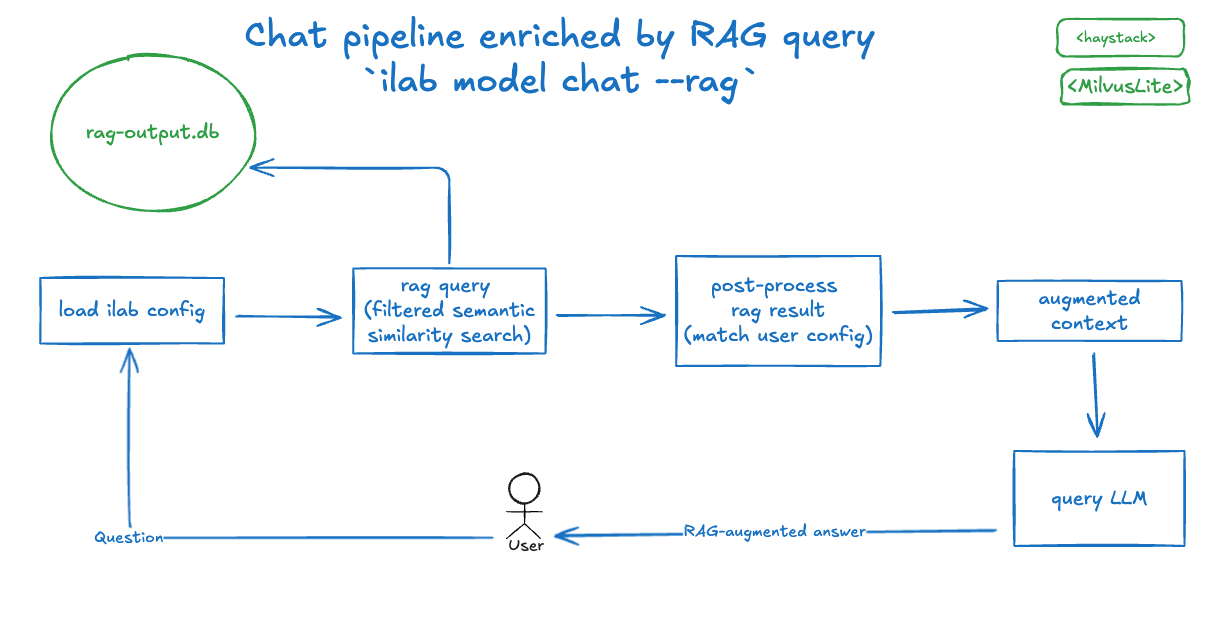
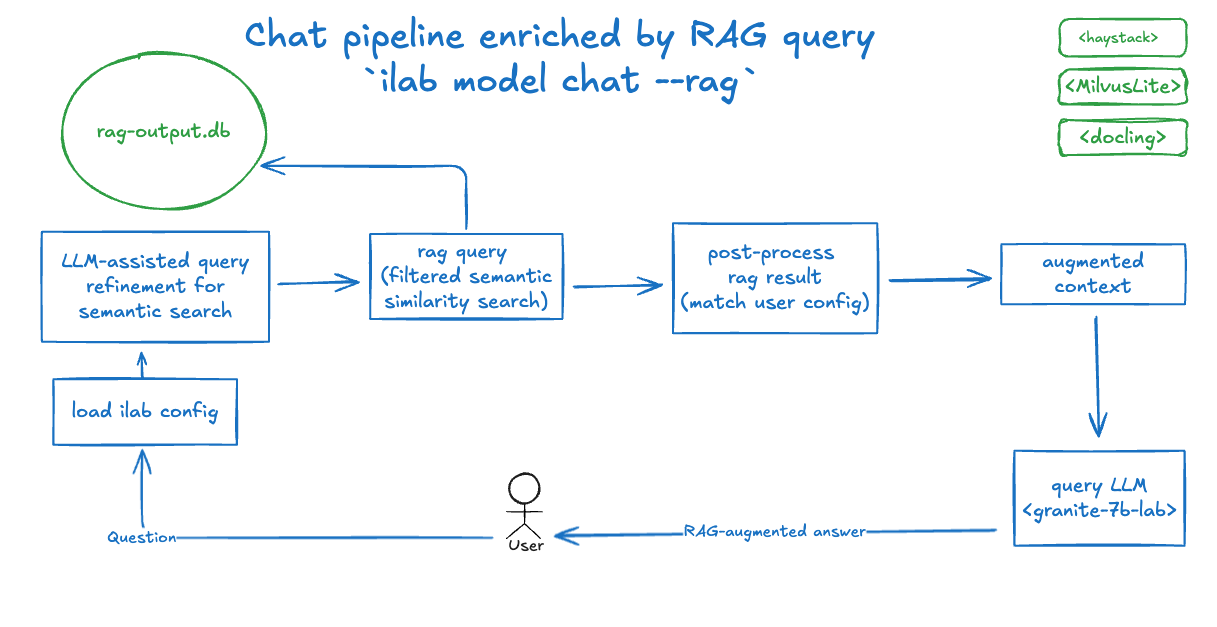
added query refinement step

diff --git a/docs/cli/ilab-rag-retrieval.md b/docs/cli/ilab-rag-retrieval.md
@@ -31,8 +31,10 @@ ilab data rag ingest /path/to/docs/folder
 This command processes embeddings generated from documents located in the */path/to/docs/folder* folder and stores them in a vector database. These embeddings are intended to be used as augmented context in a Retrieval-Augmented Generation (RAG) chat pipeline.
 
 #### Assumptions
-The documents must be in JSON format and pre-processed using the docling tool.
-**TODO** what exact schema we expect and to document how to generate these formatted documents
+The documents must be in JSON format and pre-processed using the `docling` tool.
+
+**Note**: The expected JSON schema is the same that we have when we generate knowledge data with `ilab data generate` and we
+add a reference document to the `qna.yaml` document(s).
 
 #### Supported Databases
 The command supports multiple vector database types. By default, it uses a local `MilvusLite` instance stored at `./rag-output.db`.
@@ -47,6 +49,7 @@ Alternatively, we propose providing a Jupyter notebook or a standalone script to
 
 The script should guide users in overriding default options and generating the RAG artifacts in the configured vector database instance. By default, support for MilvusLite will be included.
 
+**TODO** Introduce the evaluation framework
 
 ### 3.2 RAG Ingestion Pipeline Options
 **Planned for post v1.4 (apart changes required for the `chat` command)**
@@ -75,6 +78,13 @@ ilab model chat --rag
 #### Command Purpose
 This command enhances the existing `ilab model chat` functionality by integrating contextual information retrieved from user-provided documents, enriching the conversational experience with relevant insights.
 
+#### Revised chat pipeline
+* Start with the user's input, `user_query`.
+• Refine the `user_query` using the configured LLM to generate a semantically enriched `context_query`.
+* Use the `context_query` to retrieve relevant contextual information from the embedding database.
+* Append the retrieved context to the original LLM request.
+* Send the augmented request to the LLM and return the response to the user.
+
 #### Running the pipeline with v1.4
 To address the limitations of version 1.4, we propose introducing a configuration option to enable the RAG pipeline without any changes to the CLI:
 ```
@@ -93,6 +103,7 @@ Notes:
 | Option full name | Description | Default | CLI option |
 |------------------|-------------|---------|------------|
 | chat.rag.enabled | Boolean flag to enable or disable the RAG pipeline | `false` | `--rag`, `--no-rag` |
+| chat.rag.context_prompt | Prompt template for query refinement | See **Notes** | `--rag-context-prompt` |
 | chat.rag.retriever.top_k | The maximum number of documents to retrieve | `10` | `--retriever-top-k` |
 | chat.rag.retriever.min_score_threshold | The minimum score threshold for chunks to be considered | `0.5` | `--retriever-min-score-threshold` |
 | chat.rag.retriever.filters | Comma separated key-value pairs filters to restrict the search space | | `--retriever-filters` |
@@ -113,7 +124,24 @@ which translates to the following dictionary in the retrieval request (*):
 ```
 (*) This is for `milvuslite`, other DB can have a different implementation
 
-* Example of default RAG prompt:
+* Example of query refinement prompt:
+```python
+"""
+You are an assistant helping refine user queries for retrieval from a vector database. 
+The goal is to extract the most relevant information for answering the user's request. 
+
+Given the user's query:
+'{user_query}'
+
+Rewrite this query to focus on the key concepts and details that will retrieve the most contextually 
+relevant results from the database. 
+Make it concise and specific, avoiding conversational context or ambiguity.
+
+Return the refined query in a single sentence.
+"""
+```
+
+* Example of context-enriched RAG prompt:
 ```python
 """
 Given the following information, answer the question.
@@ -132,7 +160,7 @@ Answer:
 
 
 ### 3.5 Workflow Visualization
-<!-- https://excalidraw.com/#json=Esp339ny8AR4yBK7sJYU6,L5k4iyS3M2aRasgR4U1Y0A -->
+<!-- https://excalidraw.com/#json=jELWv0OTL6aPhX4OQdio6,Eo641qsbeSUtNM8gz2ywsQ -->
 Ingestion pipeline:
 ![ingestion-mvp](../images/ingestion-mvp.png)
 Chat pipeline enriched by RAG context:
